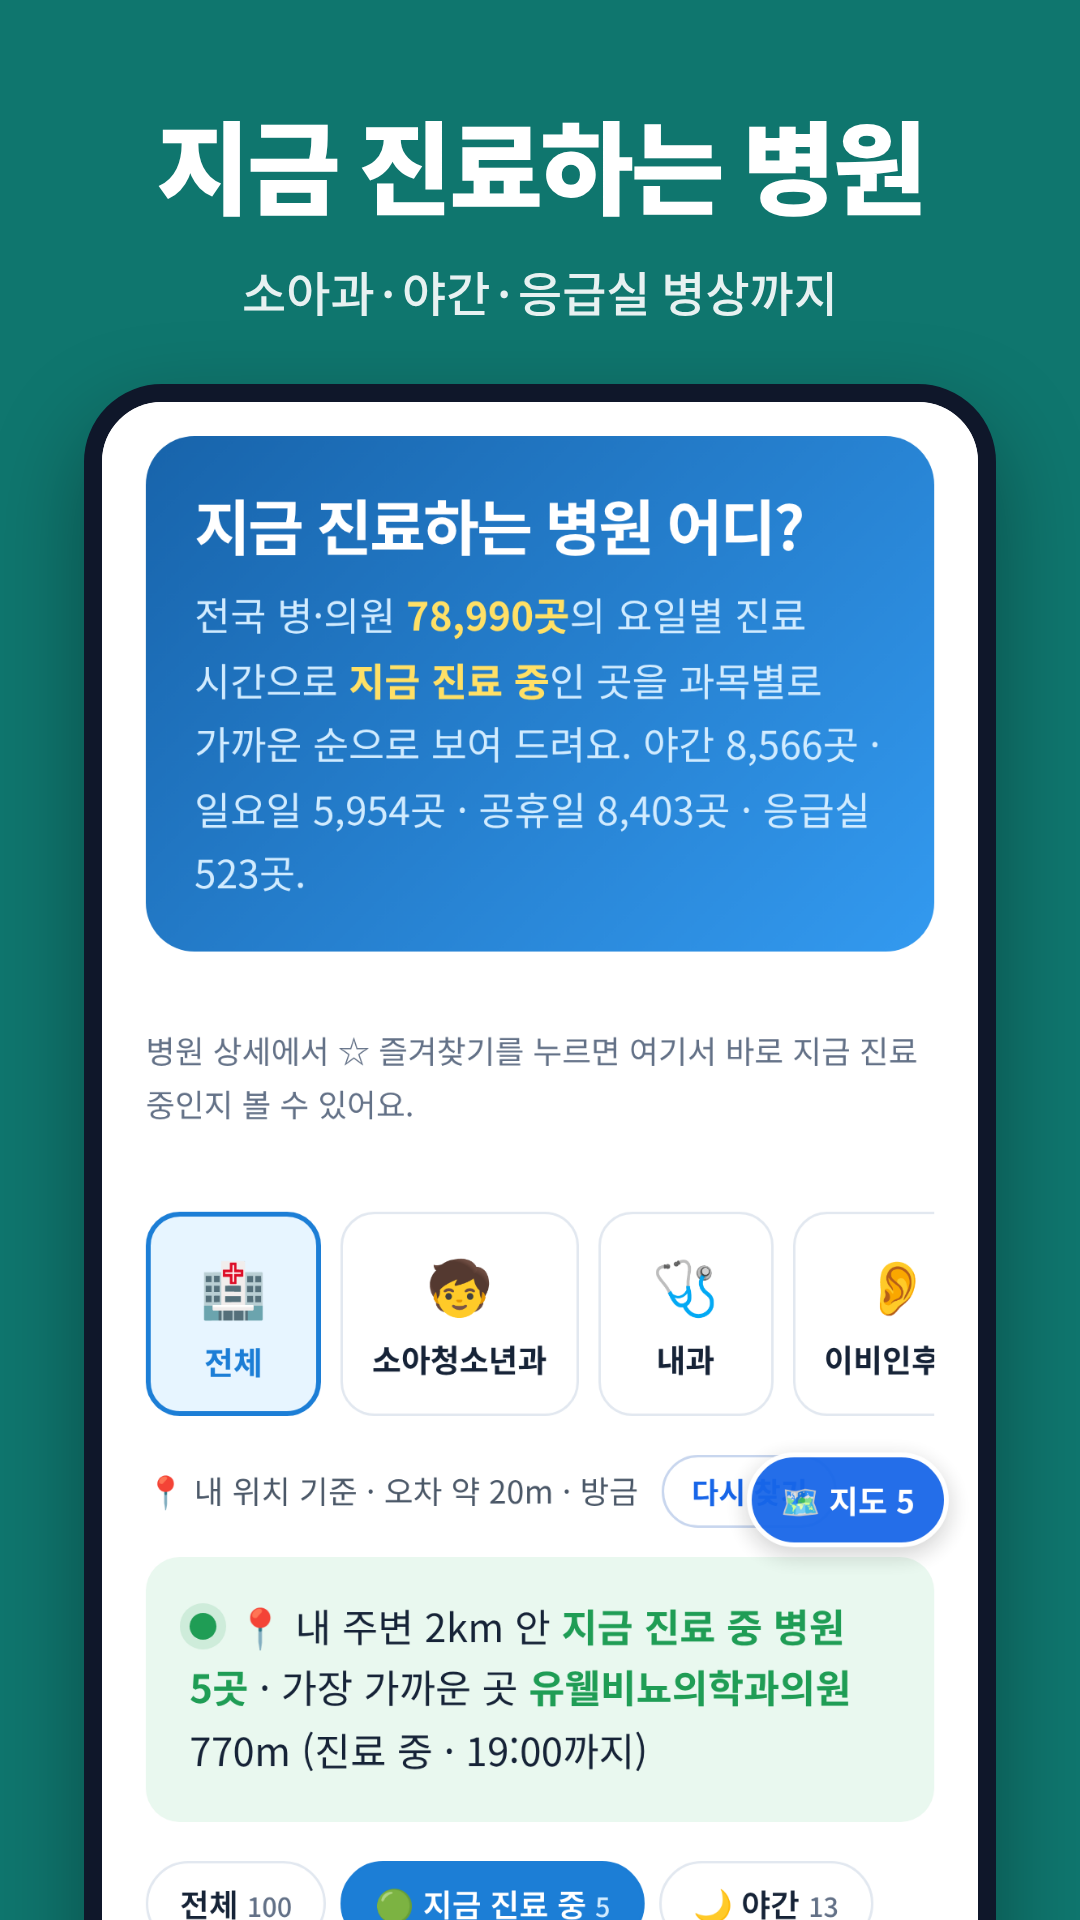
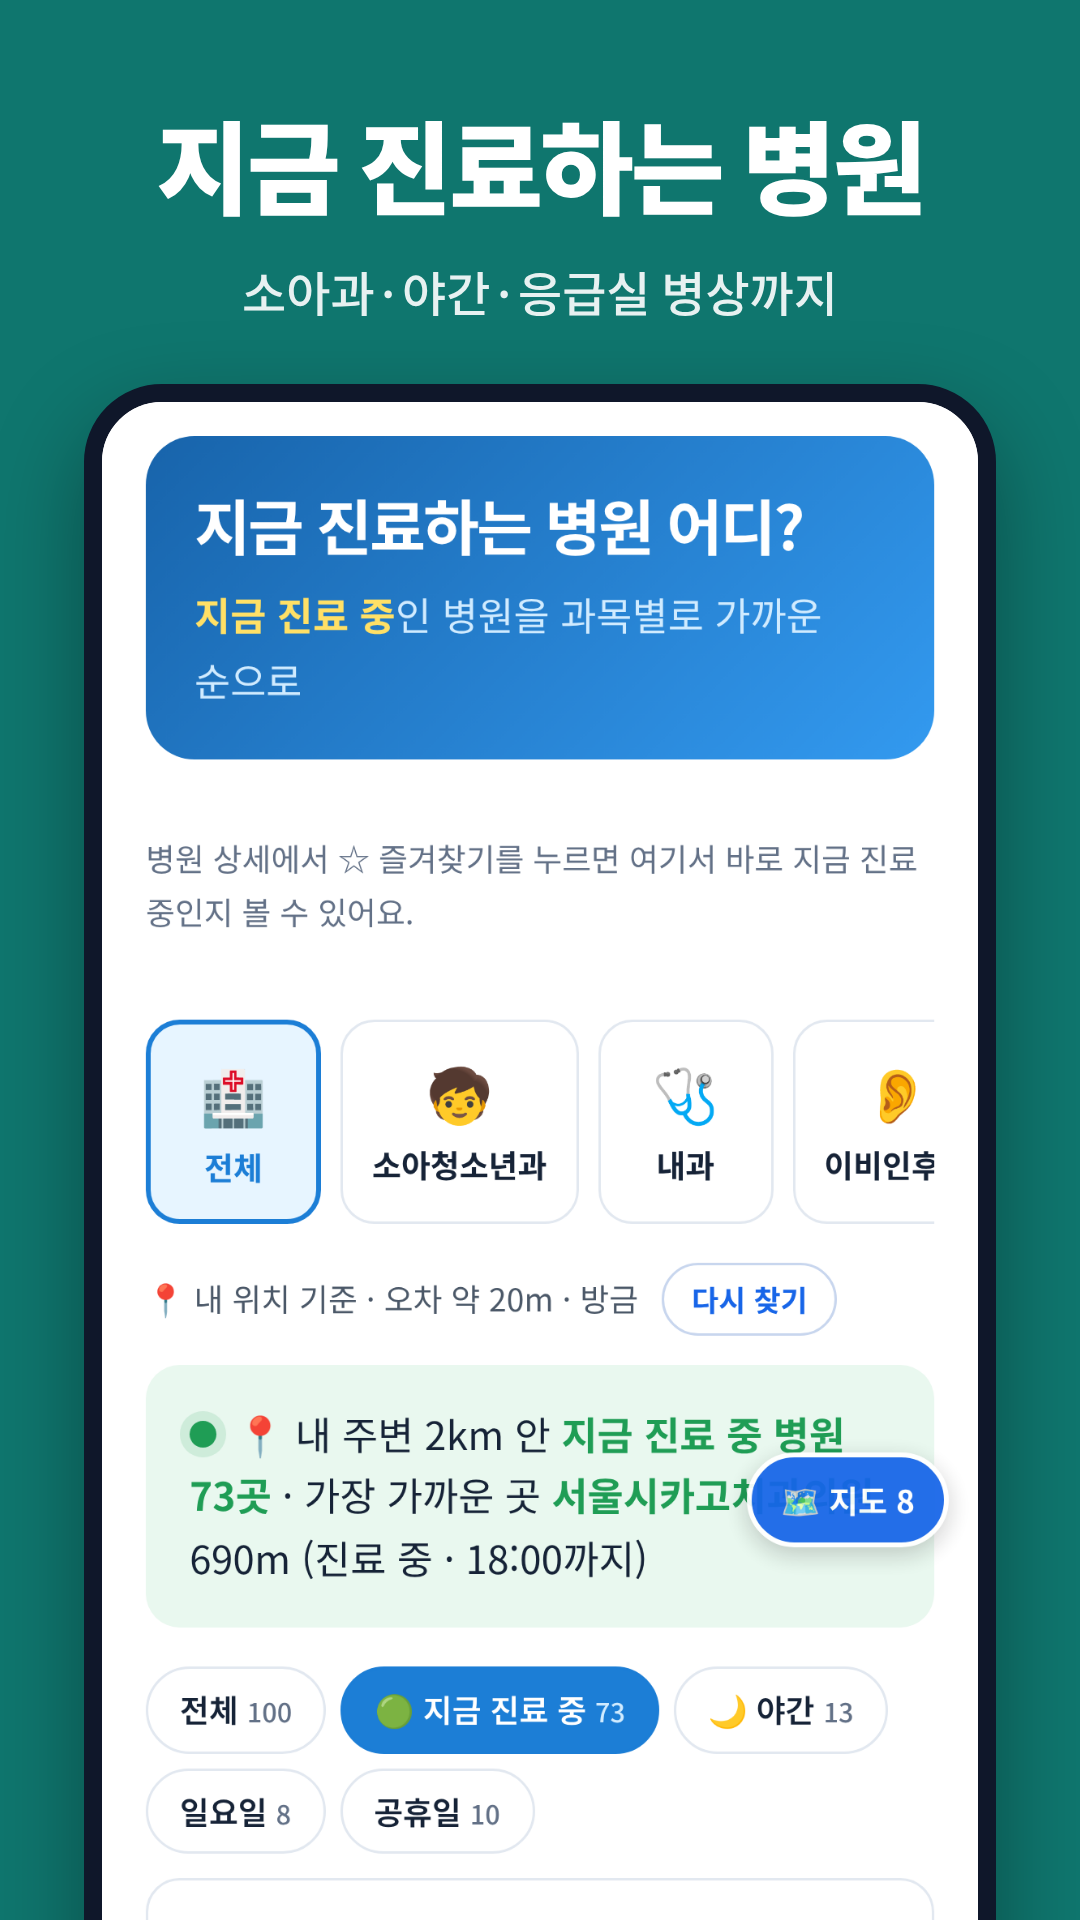
내근처 앱: 스토어 스크린샷 7장(세로 소개 첫 장, 문구 다듬기, 짧아진 첫 화면)
Claude-Session: https://claude.ai/code/session_01VWGcUchHHUhxp44WWZx2Vw

Changed region(s): [[0.1222, 0.5312, 0.8861, 1.0], [0.1222, 0.3125, 0.8861, 0.5], [0.6417, 0.9688, 0.7944, 1.0]]

diff --git a/docs/app/store-listing.md b/docs/app/store-listing.md
@@ -57,7 +57,7 @@
 ## 그래픽 (이 폴더)
 - 앱 아이콘 512×512: `store-icon-512.png`
 - 그래픽 이미지 1024×500: `feature-graphic-1024x500.png`
-- 휴대폰 스크린샷 1080×1920: `screenshots/*.png` (2장 이상 필요, 지금 6장)
+- 휴대폰 스크린샷 1080×1920: `screenshots/*.png` 7장 — 이름 순서대로 올리기(0-intro 세로 소개 → 모아보기 → 약국 → 병원 → 날씨 → 혜택 → 주유소)
 
 ## 앱 콘텐츠 설문 답(권장)
 
